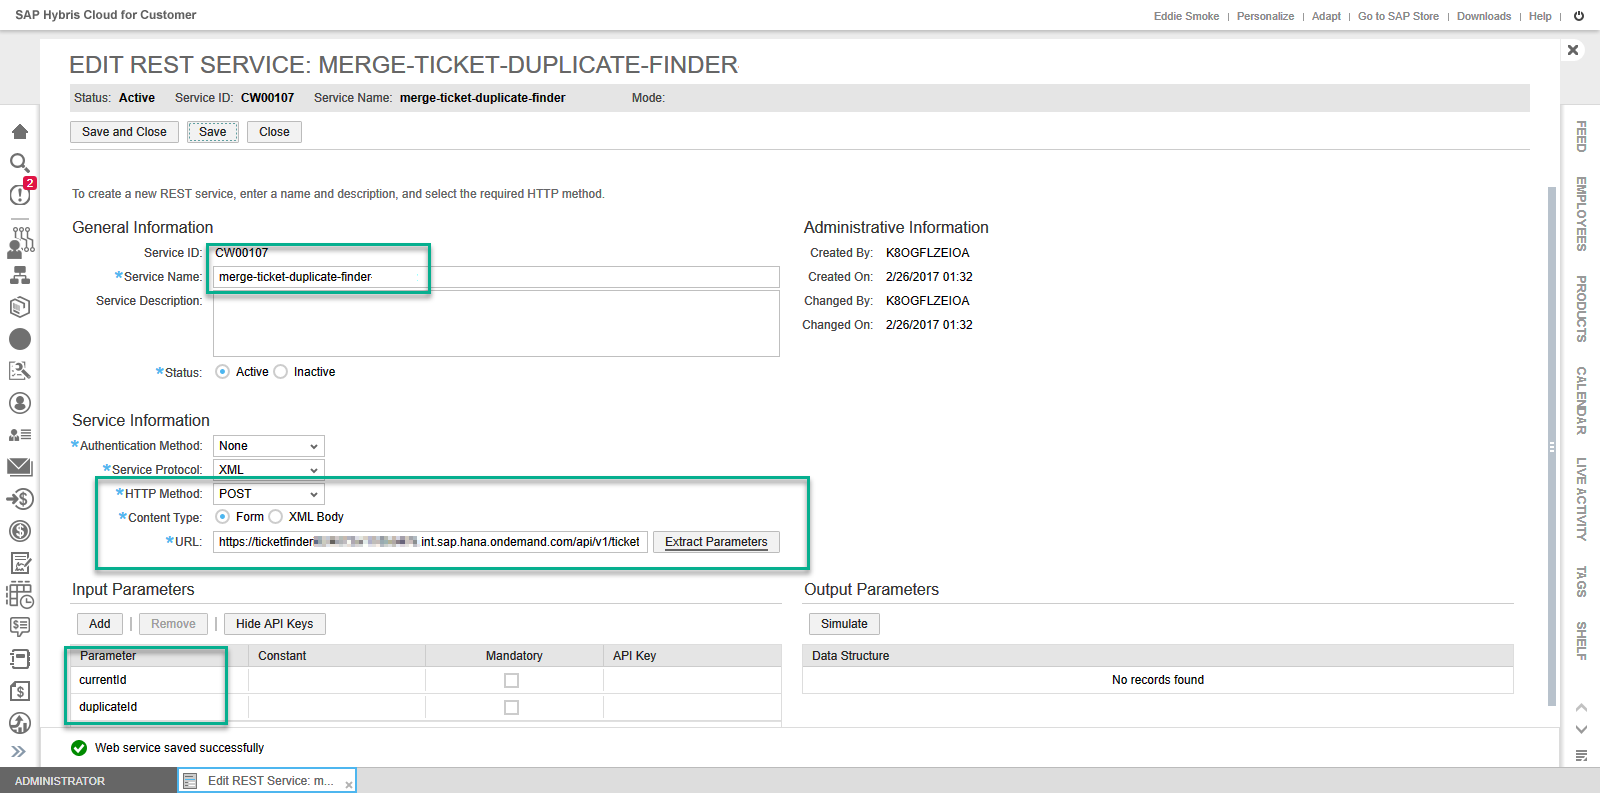
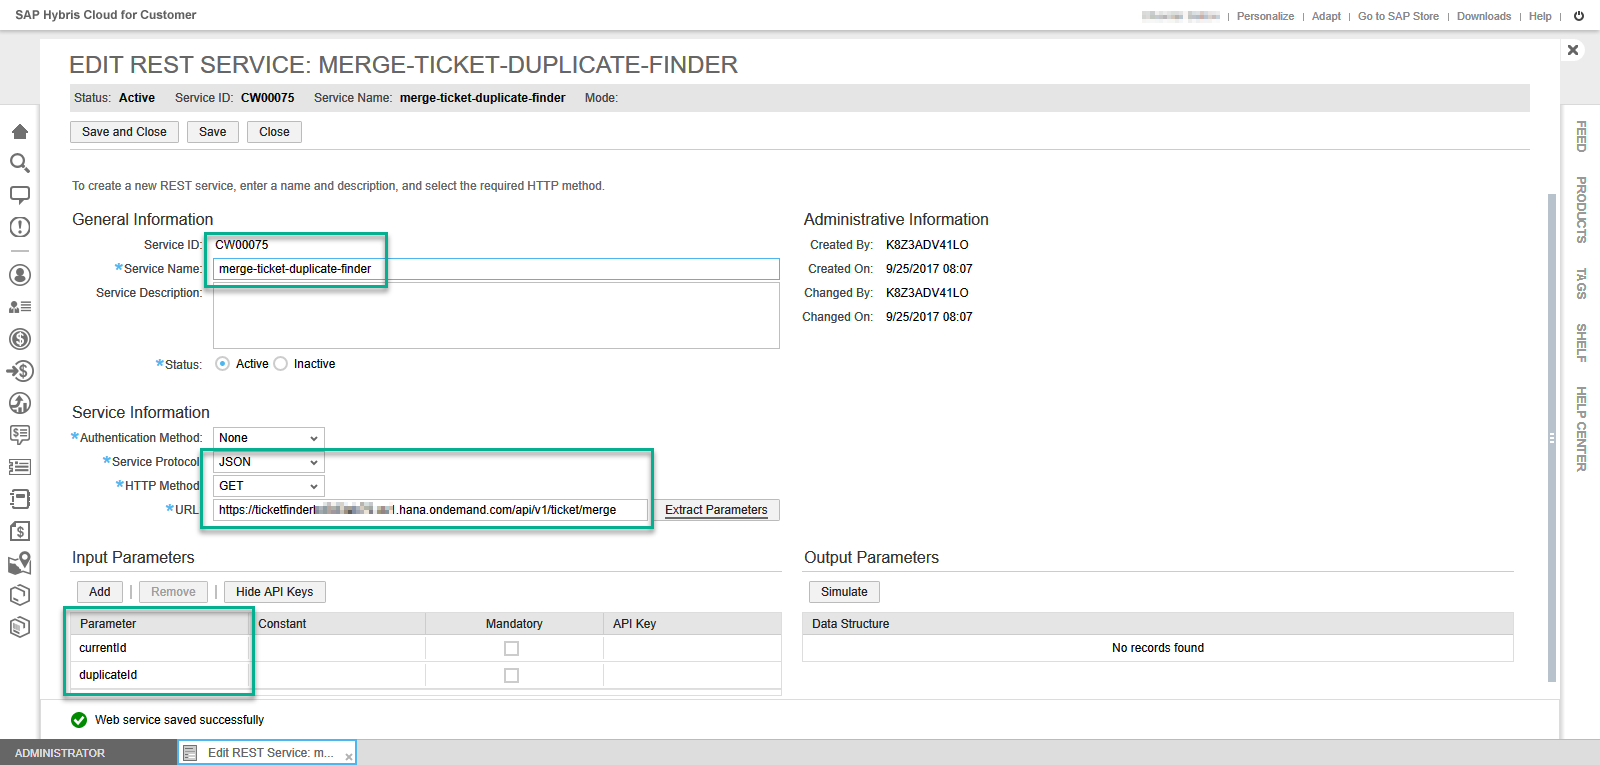
Update Mashup configuration using HTML5 UI.

diff --git a/src/main/webapp/TicketFinderWidget.html b/src/main/webapp/TicketFinderWidget.html
@@ -72,7 +72,7 @@
 <script type="text/javascript">
   function getTickets(currentTicketId) {
     sap.byd.ui.mashup.callService({
-      serviceId: '<SearchServiceID>',
+      serviceId: 'CW00074',
       parameter: {"{ticketId}": currentTicketId },
       onComplete: 'getTicketsOnCompleteHandler',
       onError: 'getTicketsOnErrorHandler'
@@ -85,7 +85,7 @@
 <script type="text/javascript">
   function mergeTickets(currentId, duplicateId) {
     sap.byd.ui.mashup.callService({
-      serviceId: '<MergeServiceID>',
+      serviceId: 'CW00075',
       parameter: {"currentId": currentId,"duplicateId": duplicateId},
       onComplete: 'mergeTicketsOnCompleteHandler',
       onError: 'mergeTicketsOnErrorHandler'

diff --git a/README.md b/README.md
@@ -221,20 +221,20 @@ The Duplicate Ticket Finder application provides such HTML mashup widget in the 
 1. Log on to the SAP Hybris Cloud for Customer system and choose *Service > Tickets*.
 2. Select *All Tickets* from the ticket filter and open one of the tickets.
 3. On the top right corner click on *Personalize > This Screen*.
-
-![alt tag](./src/main/resources/images/image2017-2-26%2021-24-33.png)
-
-4. In the *Personalize* screen, select *Mashups and Web Services*, and set the *Visible* checkbox to your mashup (under *Productivity & Tools* section).
-
-![alt tag](./src/main/resources/images/image2017-2-26%2021-28-55.png)
-
-5. Save the changes and close the *Personalization* screen.
+![alt tag](./src/main/resources/images/ADD_MASHUP_01.png)
+4. Select one of the screen sections and click on *Add Mashup* button, that appear on the popup menu
+![alt tag](./src/main/resources/images/ADD_MASHUP_02.png)
+5. In the *Mashups and Web Services* screen, find your Mashup and set the *Visible* and *Full Width* checkboxes
+![alt tag](./src/main/resources/images/ADD_MASHUP_04.png)
+6. *Apply* the changes
+![alt tag](./src/main/resources/images/ADD_MASHUP_05.png)
+7. Select *End Personalization* to end screen edit mode.
 
 **Result**
 
 You should now have the application configured and working.
 
-![alt tag](./src/main/resources/images/image2017-2-26%2021-33-11.png)
+![alt tag](./src/main/resources/images/ADD_MASHUP_06.png)
 
 ## Configure Subscription for Creating the Tickets Event Notifications in SAP Hybris Cloud for Customer
 
